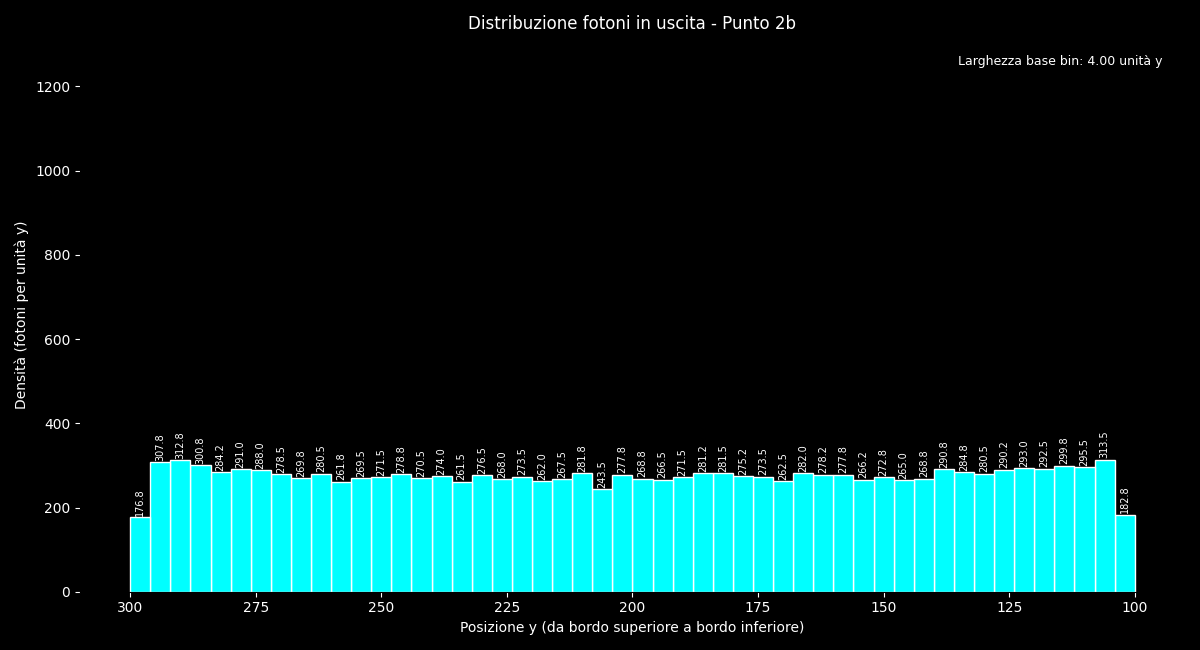
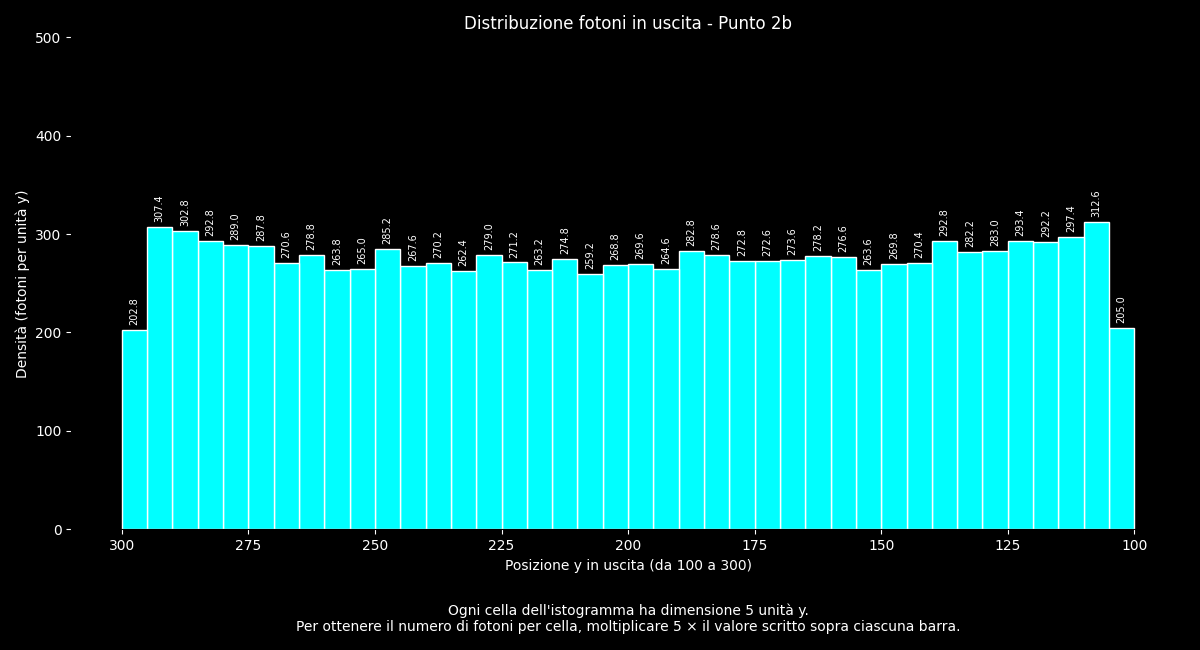
punto 2 finale

diff --git a/versione_processing/simulazione_fotoni/punto2/disegno_istogramma.py b/versione_processing/simulazione_fotoni/punto2/disegno_istogramma.py
@@ -2,8 +2,8 @@ import matplotlib.pyplot as plt
 import csv
 
 # Parametri del cavo
-y_min = 100     # bordo superiore (vicino all'origine)
-y_max = 300     # bordo inferiore (lontano dall'origine)
+y_min = 100     # bordo superiore
+y_max = 300     # bordo inferiore
 sezione_cavo = y_max - y_min
 
 # Leggi i dati da uscite_y.csv
@@ -21,8 +21,8 @@ with open(file_input, newline='') as csvfile:
             continue
 
 # Numero di intervalli nell'istogramma
-n_bins = 50
-bin_width = sezione_cavo / n_bins
+n_bins = 40
+bin_width = sezione_cavo / n_bins  # sarà esattamente 5
 
 # Crea figura
 fig, ax = plt.subplots(figsize=(12, 6.5), facecolor='black')
@@ -43,10 +43,9 @@ densita = [count / bin_width for count in n]
 
 for i, rect in enumerate(patches):
     rect.set_height(densita[i])
-    # Etichetta con altezza
     ax.text(
         rect.get_x() + rect.get_width() / 2,
-        densita[i] + max(densita) * 0.01,
+        densita[i] + 5,  # spaziatura sopra la barra
         f"{densita[i]:.1f}",
         ha='center',
         va='bottom',
@@ -55,22 +54,29 @@ for i, rect in enumerate(patches):
         rotation=90
     )
 
-# Inverti asse x: bordo superiore a sinistra
+# Inverti asse x per rappresentare da bordo superiore (100) a inferiore (300)
 ax.invert_xaxis()
 
 # Etichette e titoli
-ax.set_xlabel("Posizione y (da bordo superiore a bordo inferiore)", color='white')
+ax.set_xlabel("Posizione y in uscita (da 100 a 300)", color='white')
 ax.set_ylabel("Densità (fotoni per unità y)", color='white')
 ax.set_title("Distribuzione fotoni in uscita - Punto 2b", color='white')
 ax.tick_params(colors='white')
 
-# Etichetta costante con larghezza bin
-ax.text(0.98, 0.95,
-        f"Larghezza base bin: {bin_width:.2f} unità y",
-        color='white',
-        transform=ax.transAxes,
-        fontsize=9,
-        ha='right')
+# Imposta limite massimo asse y
+ax.set_ylim(0, 500)
+
+# Etichetta larghezza base + spiegazione
+ax.text(
+    0.5, -0.15,
+    f"Ogni cella dell'istogramma ha dimensione {bin_width:.0f} unità y.\n"
+    f"Per ottenere il numero di fotoni per cella, moltiplicare {bin_width:.0f} × il valore scritto sopra ciascuna barra.",
+    color='white',
+    transform=ax.transAxes,
+    fontsize=10,
+    ha='center',
+    va='top'
+)
 
 # Layout e salvataggio
 plt.tight_layout()
